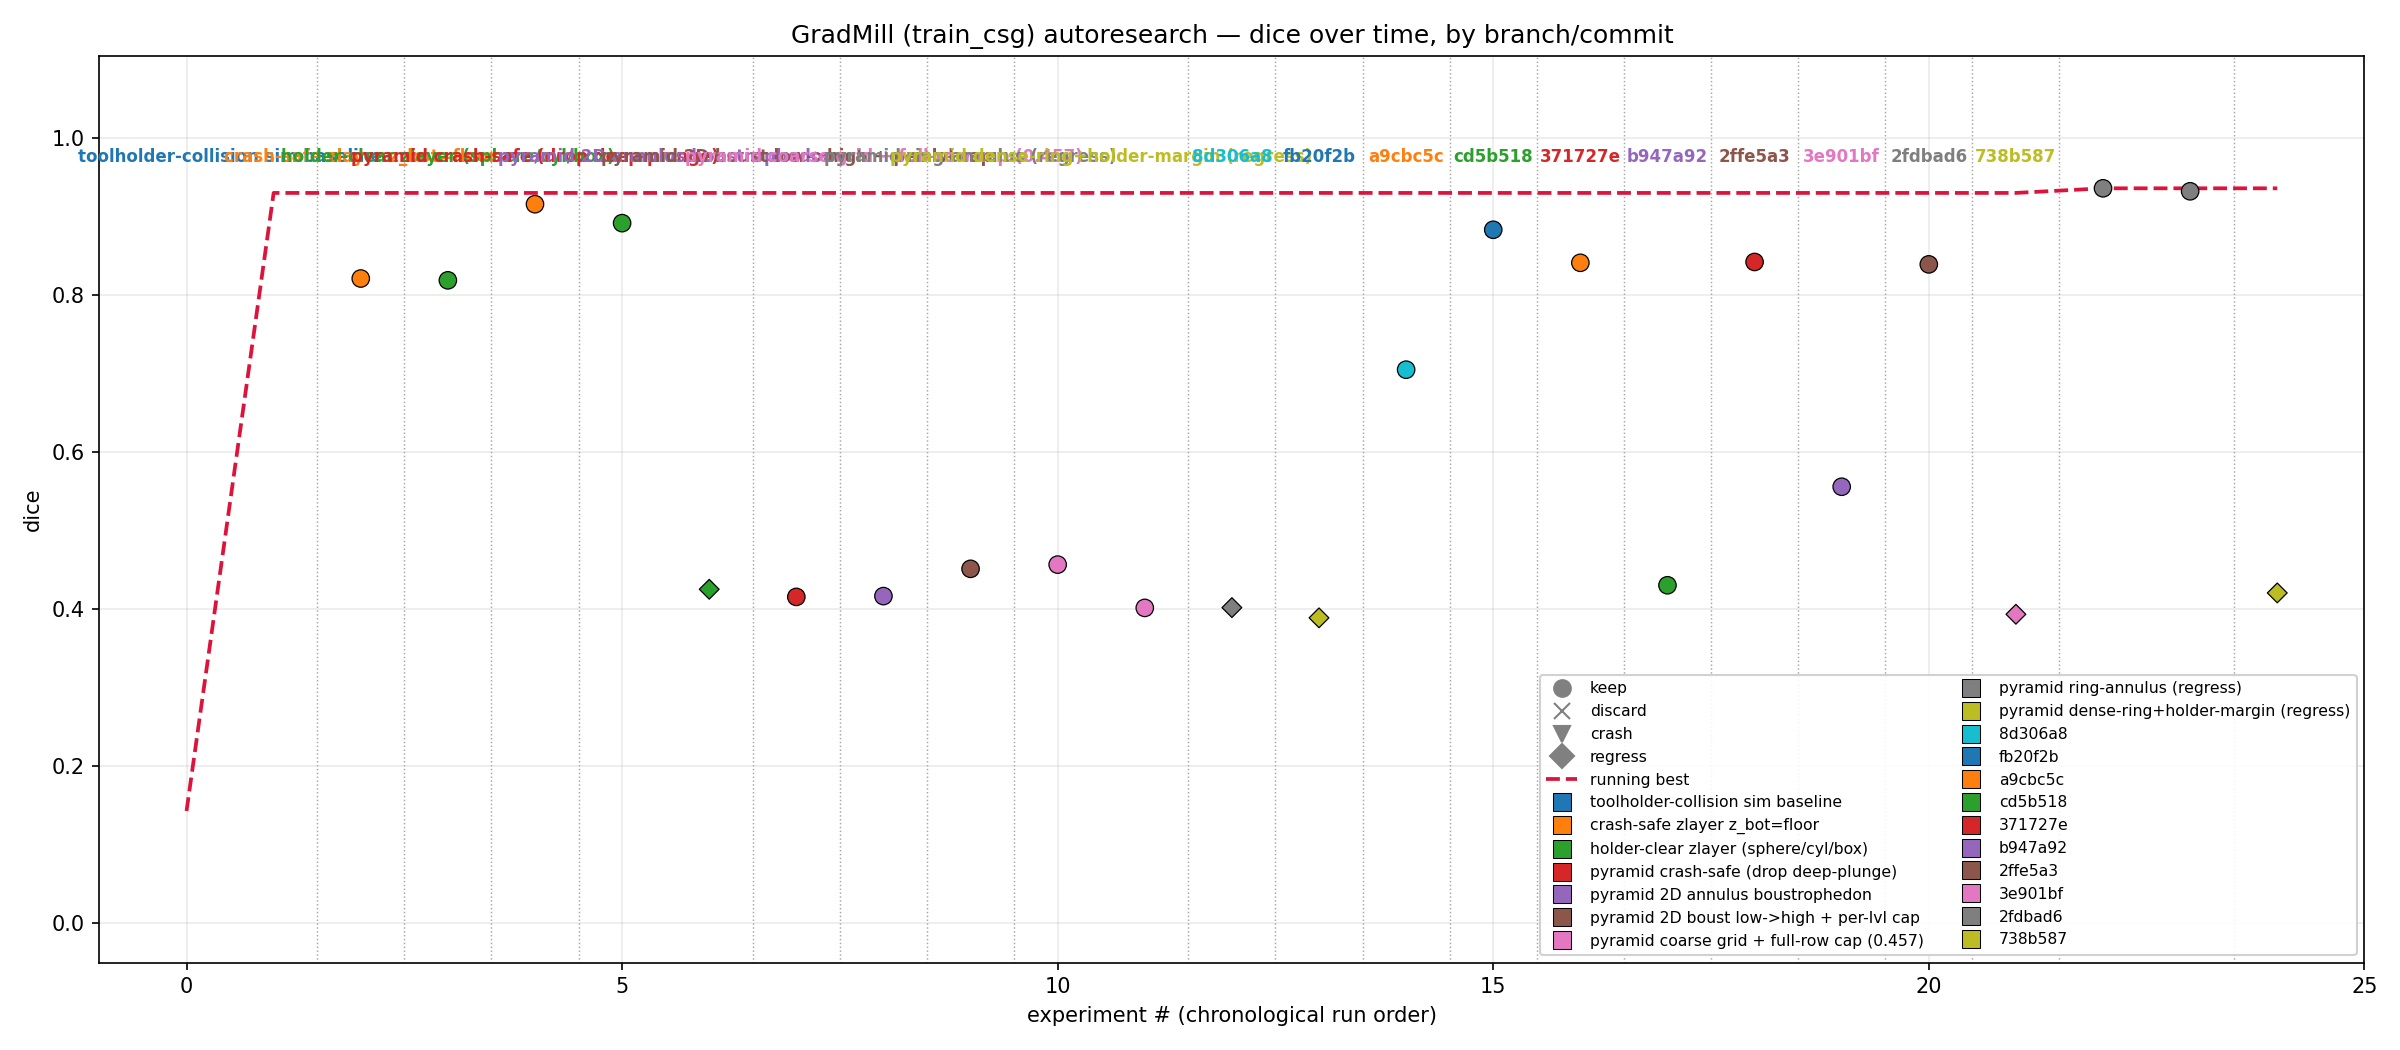
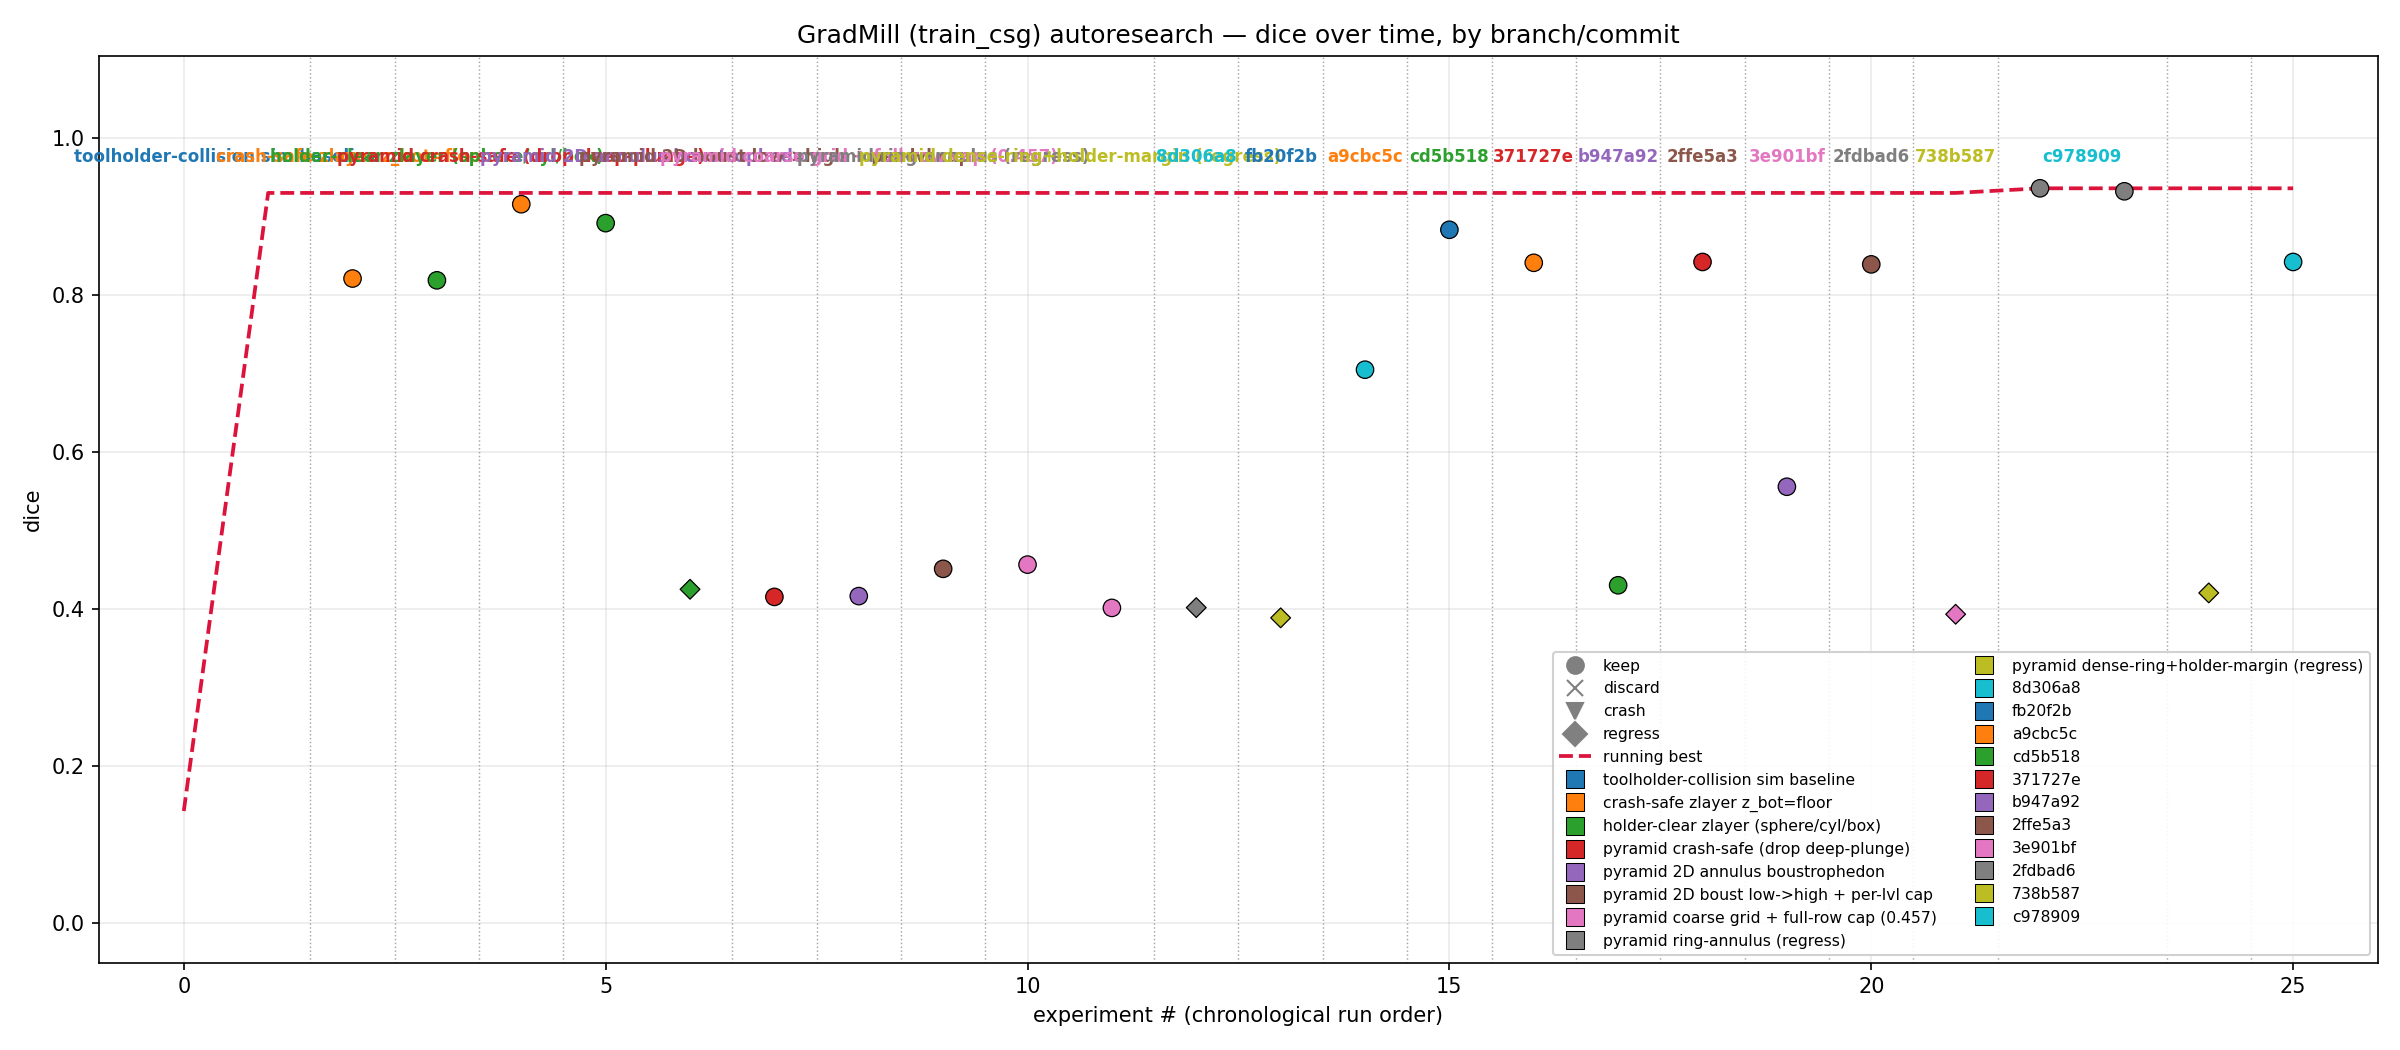
findings: tool-length saturates once tool>stock (0.75in identical)

diff --git a/autoresearch/tasks/train_csg/findings.md b/autoresearch/tasks/train_csg/findings.md
@@ -90,14 +90,17 @@ interior *from above* (spanning [base, base+1.97], mostly above the stock)
 without the orbit clearing the equator. **A tool spanning the equator must orbit
 outside it** — the fundamental reachability ceiling, independent of tool length.
 
-**Tool length is shape-dependent**: a 50mm tool raises the 1in sphere
-(0.819→0.840, lower-interior wedge reachable from above) but does NOT help the
-1in pyramid (0.457→0.421, slight regress). The pyramid's sloped-face inner band
-is *alongside* the slope, not below it — a longer tool reaching down from above
-gains nothing; only a side approach reaches it, and that gouges. So smaller
-stock helps every shape (the geometry shrinks into the tool's reach), but a
-longer tool helps only shapes whose ceiling is *below* (sphere), not *beside*
-(pyramid).
+**Tool length is shape-dependent AND saturates**: a 50mm tool raises the 1in
+sphere (0.819→0.840, lower-interior wedge reachable from above) but does NOT
+help the 1in pyramid (0.457→0.421, slight regress). The pyramid's sloped-face
+inner band is *alongside* the slope, not below it — a longer tool reaching down
+from above gains nothing; only a side approach reaches it, and that gouges.
+And the 50mm tool at 0.75in is **byte-identical** to the 25mm tool (viz 0.84264,
+same carved-voxel count): once the tool is taller than the stock (25mm > 19mm),
+the lower-interior is already reachable and extra length adds nothing. So:
+smaller stock helps every shape (geometry shrinks into the tool's reach); a
+longer tool helps only shapes whose ceiling is *below* (sphere) not *beside*
+(pyramid), and only when the stock exceeds the default tool.
 
 ## What changed in the sim (recap)
 
